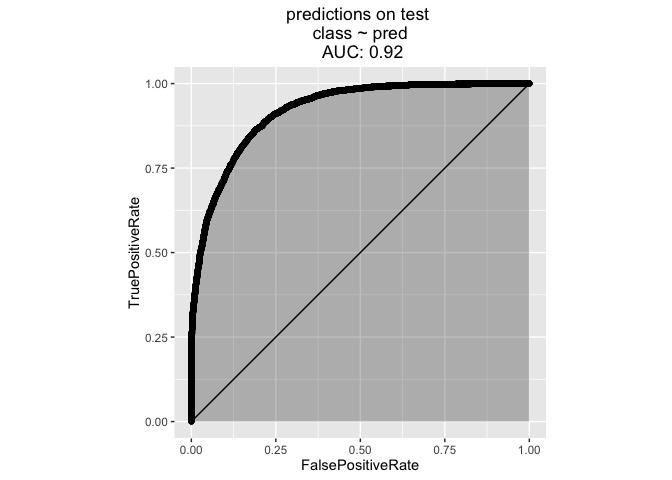
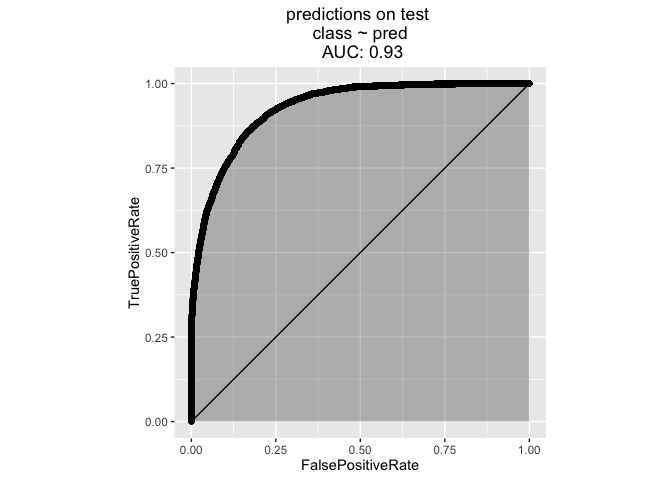
Switch to xgboost

Changed region(s): [[0.2812, 0.1562, 0.5312, 0.6562], [0.5938, 0.0938, 0.625, 0.125]]

diff --git a/CensusAdultIncomeExample/ExampleRun.md b/CensusAdultIncomeExample/ExampleRun.md
@@ -1,4 +1,6 @@
-This article is a demonstration the use of the [R](https://cran.r-project.org) [vtreat](https://github.com/WinVector/vtreat) variable preparation package followed by [caret](http://topepo.github.io/caret/index.html) controlled training. For discussion on this article please see [here](http://www.win-vector.com/blog/2016/06/a-demonstration-of-vtreat-data-preparation/).
+This article is a demonstration the use of the [R](https://cran.r-project.org) [vtreat](https://github.com/WinVector/vtreat) variable preparation package followed by [caret](http://topepo.github.io/caret/index.html) controlled training.
+
+For discussion on this article please see [here](http://www.win-vector.com/blog/2016/06/a-demonstration-of-vtreat-data-preparation/). Note we have since swithced to `xgboost` in this demonstration inspired by this [nice article](http://blog.revolutionanalytics.com/2016/05/using-caret-to-compare-models.html).
 
 In previous writings we have gone to great lengths to [document, explain and motivate `vtreat`](http://winvector.github.io/vtreathtml/). That necessarily gets long and unnecessarily feels complicated.
 
@@ -9,7 +11,7 @@ First we set things up: load libraries, initialize parallel processing.
 ``` r
 library('vtreat')
 library('caret')
-library('gbm')
+library('xgboost')
 library('doMC')
 library('WVPlots') # see https://github.com/WinVector/WVPlots
 
@@ -94,7 +96,7 @@ system.time({
 ```
 
     ##    user  system elapsed 
-    ##  11.340   2.760  30.872
+    ##  12.140   2.943  33.937
 
 ``` r
 #print(newVars)
@@ -105,52 +107,120 @@ Now we train our model. In this case we are using the caret package to tune para
 ``` r
 # train our model using caret
 system.time({
-  yForm <- as.formula(paste(yName,paste(newVars,collapse=' + '),sep=' ~ '))
-  # from: http://topepo.github.io/caret/training.html
-  fitControl <- trainControl(## 10-fold CV
-    method = "cv",
-    number = 3)
-  model <- train(yForm,
-                 data = dTrainTreated,
-                 method = "gbm",
-                 trControl = fitControl,
-                 verbose = FALSE)
+  # work around "levels must be valid R variable names issue"
+  dTrainTreated$yLogical = as.factor(paste0('v',as.character(dTrainTreated[[yName]]==yTarget)))
+  # from:http://blog.revolutionanalytics.com/2016/05/using-caret-to-compare-models.html
+  # could use accuracy as the tuning metric, but going to demonstrate using AUC
+  ctrl <- trainControl(method = "cv",
+                     number = 5,
+                     summaryFunction=twoClassSummary,   # Use AUC to pick the best model
+                     classProbs=TRUE,
+                     allowParallel = TRUE)
+  model <- train(x=dTrainTreated[,newVars],
+                 y=dTrainTreated$yLogical,
+                 method="xgbTree",
+                 metric="ROC",
+                 trControl=ctrl)
   print(model)
-  dTest$pred <- predict(model,newdata=dTestTreated,type='prob')[,yTarget]
+  dTest$pred <- predict(model,newdata=dTestTreated[,newVars],type='prob')[,'vTRUE']
 })
 ```
 
-    ## Stochastic Gradient Boosting 
+    ## eXtreme Gradient Boosting 
     ## 
     ## 32561 samples
-    ##    64 predictor
-    ##     2 classes: '<=50K', '>50K' 
+    ##    59 predictor
+    ##     2 classes: 'vFALSE', 'vTRUE' 
     ## 
     ## No pre-processing
-    ## Resampling: Cross-Validated (3 fold) 
-    ## Summary of sample sizes: 21707, 21708, 21707 
+    ## Resampling: Cross-Validated (5 fold) 
+    ## Summary of sample sizes: 26049, 26048, 26049, 26049, 26049 
     ## Resampling results across tuning parameters:
     ## 
-    ##   interaction.depth  n.trees  Accuracy   Kappa    
-    ##   1                   50      0.8476398  0.5083558
-    ##   1                  100      0.8556555  0.5561726
-    ##   1                  150      0.8577746  0.5699958
-    ##   2                   50      0.8560855  0.5606650
-    ##   2                  100      0.8593102  0.5810931
-    ##   2                  150      0.8625042  0.5930111
-    ##   3                   50      0.8593717  0.5789289
-    ##   3                  100      0.8649919  0.6017707
-    ##   3                  150      0.8660975  0.6073645
+    ##   eta  max_depth  colsample_bytree  nrounds  ROC        Sens     
+    ##   0.3  1          0.6                50      0.9119288  0.9498786
+    ##   0.3  1          0.6               100      0.9166231  0.9443770
+    ##   0.3  1          0.6               150      0.9192115  0.9449838
+    ##   0.3  1          0.8                50      0.9120844  0.9496764
+    ##   0.3  1          0.8               100      0.9166067  0.9447411
+    ##   0.3  1          0.8               150      0.9192564  0.9453883
+    ##   0.3  2          0.6                50      0.9209832  0.9459547
+    ##   0.3  2          0.6               100      0.9260585  0.9442557
+    ##   0.3  2          0.6               150      0.9275664  0.9435680
+    ##   0.3  2          0.8                50      0.9213899  0.9461165
+    ##   0.3  2          0.8               100      0.9258379  0.9435680
+    ##   0.3  2          0.8               150      0.9273453  0.9434466
+    ##   0.3  3          0.6                50      0.9258975  0.9445793
+    ##   0.3  3          0.6               100      0.9281575  0.9422330
+    ##   0.3  3          0.6               150      0.9288680  0.9411408
+    ##   0.3  3          0.8                50      0.9263265  0.9454693
+    ##   0.3  3          0.8               100      0.9284445  0.9429612
+    ##   0.3  3          0.8               150      0.9291195  0.9420307
+    ##   0.4  1          0.6                50      0.9137344  0.9440939
+    ##   0.4  1          0.6               100      0.9184002  0.9444579
+    ##   0.4  1          0.6               150      0.9208363  0.9438107
+    ##   0.4  1          0.8                50      0.9137965  0.9444175
+    ##   0.4  1          0.8               100      0.9184990  0.9441748
+    ##   0.4  1          0.8               150      0.9207576  0.9439725
+    ##   0.4  2          0.6                50      0.9232521  0.9453074
+    ##   0.4  2          0.6               100      0.9269142  0.9428398
+    ##   0.4  2          0.6               150      0.9278805  0.9428398
+    ##   0.4  2          0.8                50      0.9232426  0.9453074
+    ##   0.4  2          0.8               100      0.9269677  0.9436893
+    ##   0.4  2          0.8               150      0.9280206  0.9433252
+    ##   0.4  3          0.6                50      0.9280836  0.9437298
+    ##   0.4  3          0.6               100      0.9290156  0.9406149
+    ##   0.4  3          0.6               150      0.9288506  0.9402104
+    ##   0.4  3          0.8                50      0.9274379  0.9436489
+    ##   0.4  3          0.8               100      0.9285733  0.9417071
+    ##   0.4  3          0.8               150      0.9284223  0.9401699
+    ##   Spec     
+    ##   0.5646002
+    ##   0.6014574
+    ##   0.6094922
+    ##   0.5649837
+    ##   0.6001824
+    ##   0.6089820
+    ##   0.6137009
+    ##   0.6371665
+    ##   0.6452012
+    ##   0.6128083
+    ##   0.6388252
+    ##   0.6460938
+    ##   0.6388246
+    ##   0.6531089
+    ##   0.6546393
+    ##   0.6327040
+    ##   0.6485183
+    ##   0.6534913
+    ##   0.5893427
+    ##   0.6079619
+    ##   0.6180369
+    ##   0.5883233
+    ##   0.6079634
+    ##   0.6177824
+    ##   0.6241601
+    ##   0.6439266
+    ##   0.6509410
+    ##   0.6277299
+    ##   0.6450742
+    ##   0.6499205
+    ##   0.6487725
+    ##   0.6582097
+    ##   0.6626728
+    ##   0.6478797
+    ##   0.6564238
+    ##   0.6573163
     ## 
-    ## Tuning parameter 'shrinkage' was held constant at a value of 0.1
+    ## Tuning parameter 'gamma' was held constant at a value of 0
     ## 
-    ## Tuning parameter 'n.minobsinnode' was held constant at a value of 10
-    ## Accuracy was used to select the optimal model using  the largest value.
-    ## The final values used for the model were n.trees = 150,
-    ##  interaction.depth = 3, shrinkage = 0.1 and n.minobsinnode = 10.
+    ## Tuning parameter 'min_child_weight' was held constant at a value of 1
+    ## ROC was used to select the optimal model using  the largest value.
+    ## The final values used for the model were nrounds = 150, max_depth = 3,
+    ##  eta = 0.3, gamma = 0, colsample_bytree = 0.8 and min_child_weight = 1.
 
     ##    user  system elapsed 
-    ##  61.908   2.227  36.850
+    ## 163.162   4.227  65.796
 
 Finally we take a look at the results on the held-out test data.
 
@@ -173,15 +243,15 @@ print(confusionMatrix)
 
     ##         pred
     ## truth    FALSE  TRUE
-    ##   <=50K. 11684   751
-    ##   >50K.   1406  2440
+    ##   <=50K. 11700   735
+    ##   >50K.   1322  2524
 
 ``` r
 testAccuarcy <- (confusionMatrix[1,1]+confusionMatrix[2,2])/sum(confusionMatrix)
 testAccuarcy
 ```
 
-    ## [1] 0.8675143
+    ## [1] 0.8736564
 
 Notice the achieved test accuracy is in the ballpark of what was reported for this dataset.
 
@@ -203,8 +273,8 @@ print(confusionMatrixComplete)
 
     ##         pred
     ## truth    FALSE  TRUE
-    ##   <=50K. 10618   742
-    ##   >50K.   1331  2369
+    ##   <=50K. 10639   721
+    ##   >50K.   1253  2447
 
 ``` r
 testAccuarcyComplete <- (confusionMatrixComplete[1,1]+confusionMatrixComplete[2,2])/
@@ -212,7 +282,7 @@ testAccuarcyComplete <- (confusionMatrixComplete[1,1]+confusionMatrixComplete[2,
 testAccuarcyComplete
 ```
 
-    ## [1] 0.8623506
+    ## [1] 0.8689243
 
 ``` r
 # clean up
